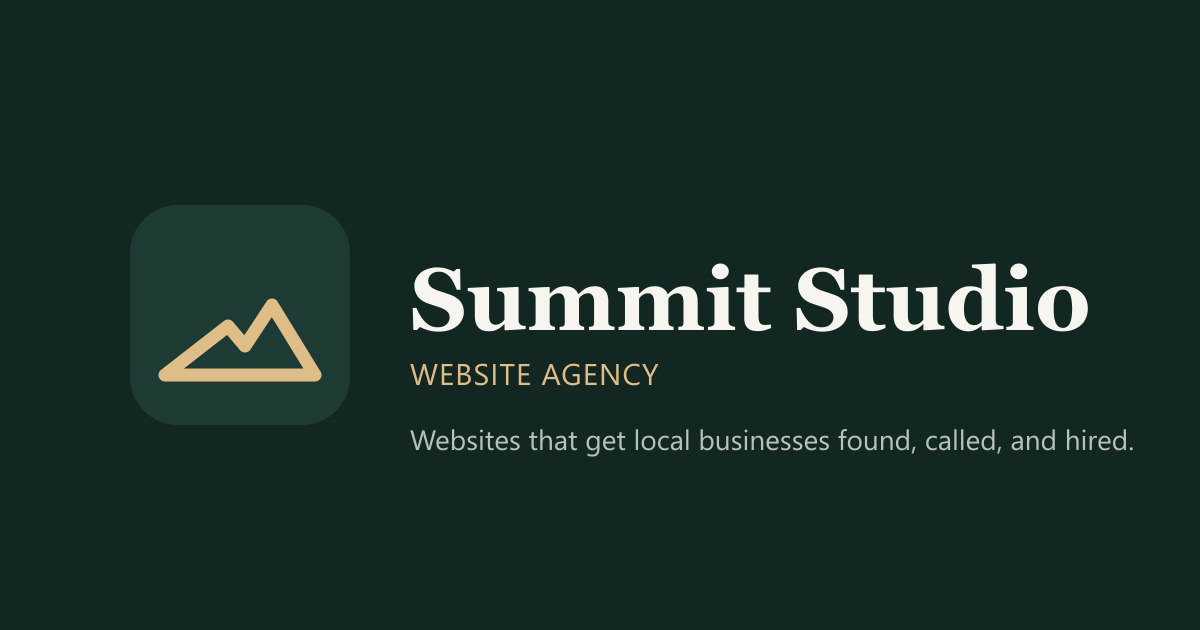
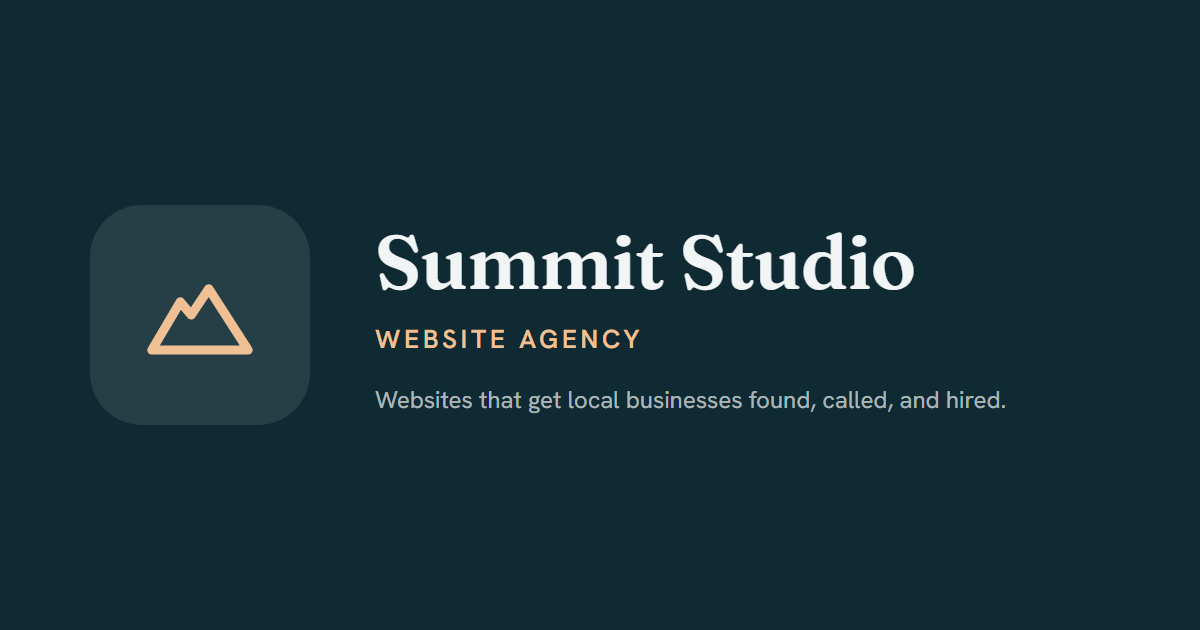
Adopt the Landscaping demo's teal/blue + copper color theme sitewide
Replace the forest-green/gold palette in src/data/tokens.ts with the exact
palette from the Summit Studio Landscaping demo (engine repo's
src/data/businesses/summit-studio-landscaping/theme.ts), at the user's
request -- since every color on this site flows from this one token file,
the swap reaches every page automatically (buttons, links, badges,
sections, footer, nav) with no per-page changes needed.

One deliberate deviation from the source theme: `highlight` is darkened
~2% (#2E7B8C -> #2D7989) -- at the source's exact value, small text in
that color measured 4.42:1 against this site's sage-toned sections, just
under the 4.5:1 WCAG AA minimum. Verified contrast ratios for every real
text/background pairing in the new palette before shipping, not just the
one that needed adjusting. `danger` (form-error red) is unchanged -- the
source theme has no equivalent and it's a functional color, not a brand
one.

Also regenerated apple-icon.png and opengraph-image.png, which hardcode
their own colors outside the token system and so didn't pick up the swap
automatically -- rebuilt both to match the new palette, reusing the same
mountain-mark icon and layout as the originals.

Verified: full production build, lint, and a fresh overflow sweep
(375-1920px) across all 8 pages, all clean.

Changed region(s): [[0.3083, 0.3619, 0.9558, 0.7238], [0.0617, 0.3016, 0.2775, 0.6937]]

diff --git a/src/data/tokens.ts b/src/data/tokens.ts
@@ -20,38 +20,49 @@
 
 export const TOKENS = {
   colors: {
-    // Primary brand color — buttons, links, key accents. A deep alpine
-    // forest-teal — distinct from any client's green, closer to slate.
-    primary: '#1E3A34',
+    // Palette match, 2026-07-19: adopted directly from the Summit Studio
+    // Landscaping demo (src/data/businesses/summit-studio-landscaping/theme.ts
+    // in the engine repo) at the user's explicit request — a teal/blue
+    // identity in place of the original forest-green. `danger` is the one
+    // color NOT carried over (the client theme has no equivalent); every
+    // other value below is that theme's own hex, verified against this
+    // site's actual background/surface tones before landing (see contrast
+    // notes below) — not just eyeballed.
+    //
+    // Primary brand color — buttons, links, key accents.
+    primary: '#1E4E5F',
     // Deepest brand color — dark sections, footer, scrolled navbar.
-    secondary: '#0E1D19',
+    secondary: '#0F2A33',
     // Bold accent — the single boldest call-to-action color.
     accent: {
-      DEFAULT: '#C79A56',
-      soft: '#DEBD86',
+      DEFAULT: '#D97D3D',
+      soft: '#EFC094',
     },
     // Supporting accent — icons, small highlights, secondary detail color.
-    // Darkened from the original #4F7C6C: at that value, text set in this
-    // color (eyebrow labels, the "Best for" tag) contrast-checked at 4.35:1
-    // against `background` — under the 4.5:1 WCAG AA minimum for small
-    // text. This value holds ~5.9:1 in the same hue family.
-    highlight: '#3E6555',
+    // Darkened ~2% from the source theme's #2E7B8C: at that exact value,
+    // text set in this color (eyebrow labels, the "Best for" tag) contrast-
+    // checked at 4.42:1 against `surface.50` — just under the 4.5:1 WCAG AA
+    // minimum for small text on that particular background. This value
+    // clears 4.5:1 there (and 4.7:1+ against `background`) while reading as
+    // visually identical to the source.
+    highlight: '#2D7989',
     // Additional supporting tone, reserved for future use.
-    tertiary: '#5B6B5E',
+    tertiary: '#4A6670',
     // Form validation state only (required-field marks, error text/borders).
-    // `accent` (#C79A56) contrast-checks at just 2.35:1 against `background`
-    // — nowhere near readable for error copy — so error states get their
-    // own color rather than reusing a brand accent that fails at text size.
+    // No equivalent in the source theme, and the new `accent` (#D97D3D)
+    // contrast-checks at just 2.89:1 against `background` — not readable
+    // for error copy — so this stays its own dedicated color, unchanged
+    // from before.
     danger: '#B23B3B',
 
-    background: '#F7F5F0', // page background
+    background: '#FAFAF7', // page background
     surface: {
-      DEFAULT: '#ECEEE6',
-      50: '#F2F3ED',
-      100: '#ECEEE6',
+      DEFAULT: '#E6EDEE',
+      50: '#F1F5F5',
+      100: '#E6EDEE',
     },
-    foreground: '#16211D', // body text on light surfaces
-    muted: '#5B655F', // secondary / de-emphasized text
+    foreground: '#132226', // body text on light surfaces
+    muted: '#57696D', // secondary / de-emphasized text
   },
 
   radius: {